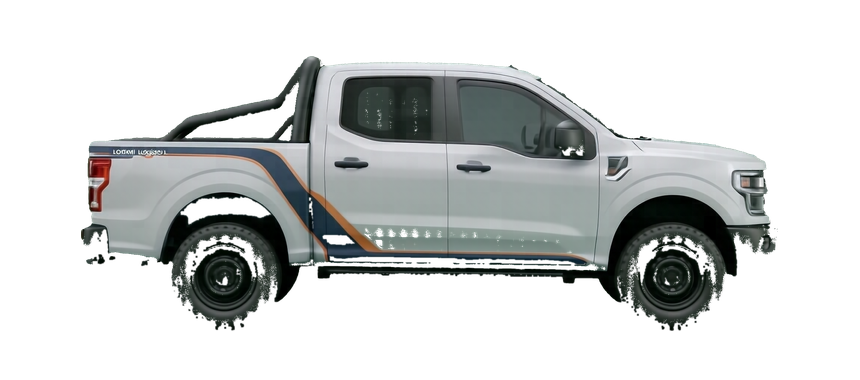
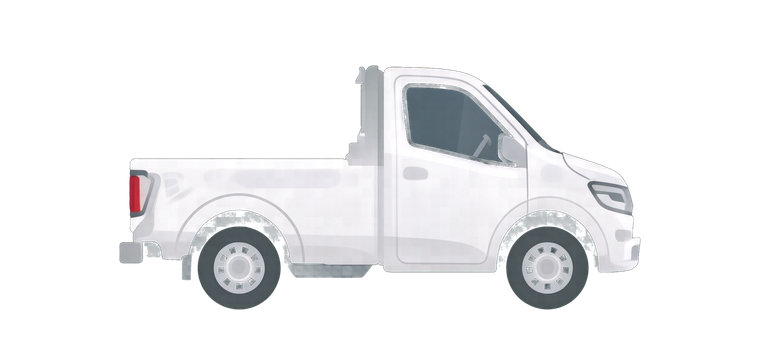
Restore illustrated vehicle images

diff --git a/app/components/PriceCalculatorPage.tsx b/app/components/PriceCalculatorPage.tsx
@@ -95,7 +95,7 @@ type Vehicle = {
   perKm: number;
 };
 
-const vehicleImageVersion = 'realistic-20260606';
+const vehicleImageVersion = 'illustration-20260606';
 
 const vehicles: Vehicle[] = [
   { key: 'pickup', nameTh: 'รถกระบะ 4 ล้อ', nameEn: '4-Wheel Pickup', descTh: 'เหมาะกับของไม่เกิน 1 ตัน', descEn: 'For loads up to 1 ton', base: 1600, perKm: 4.2 },
